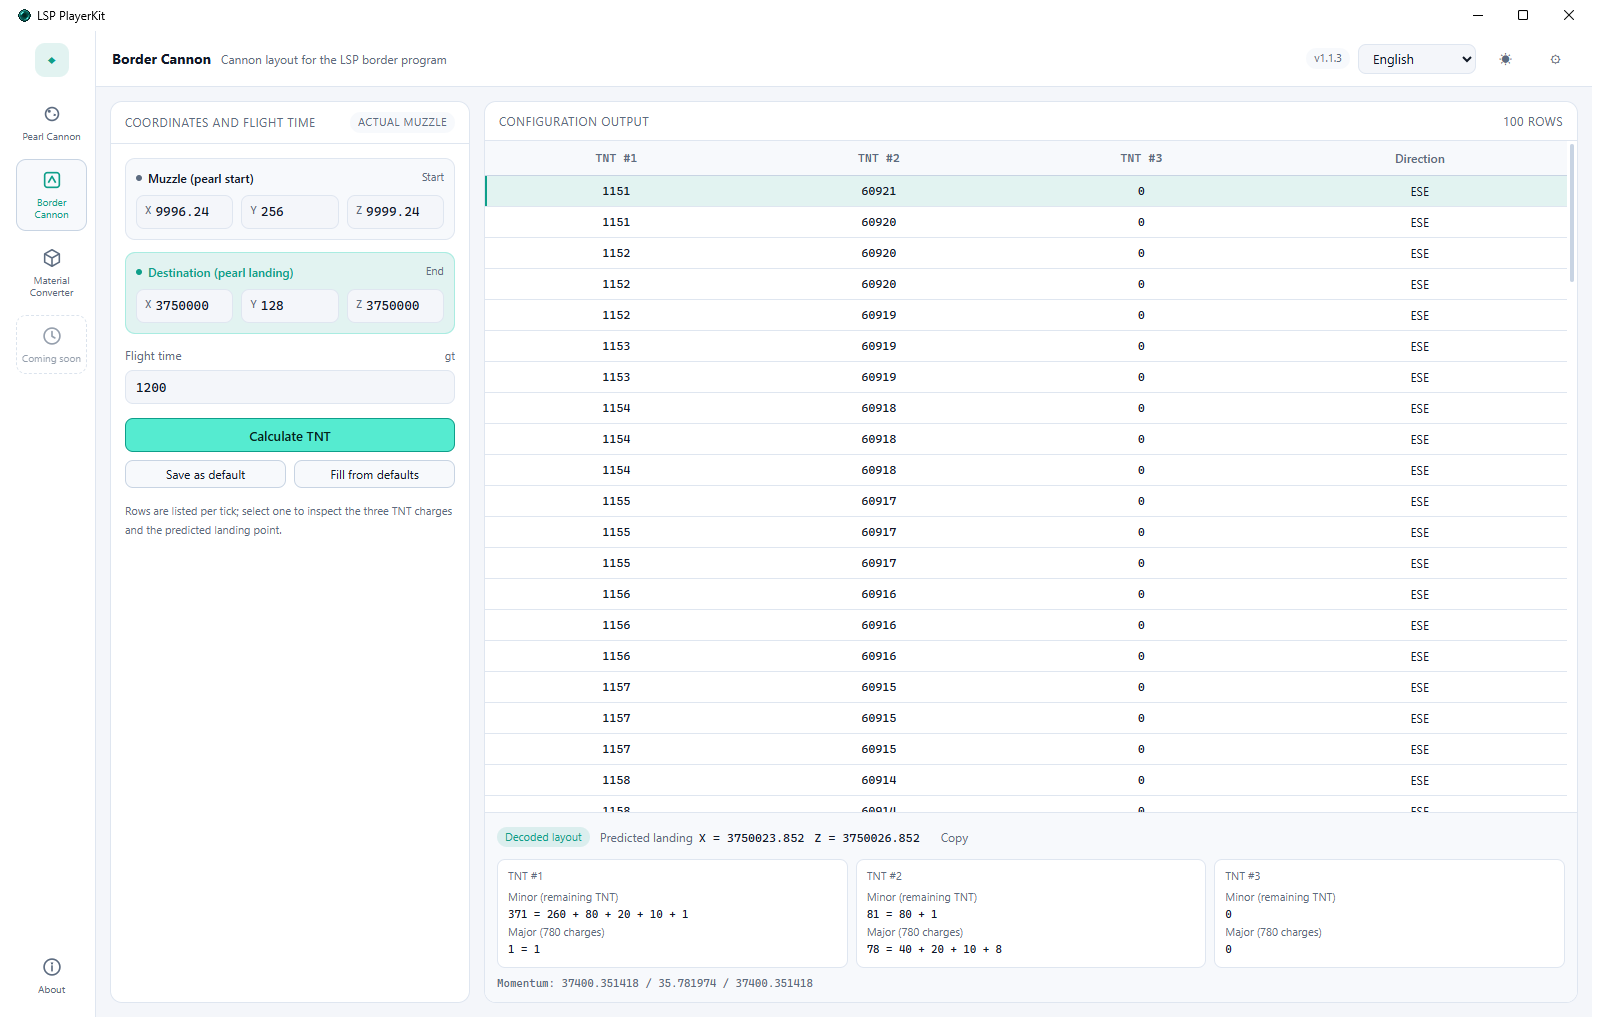
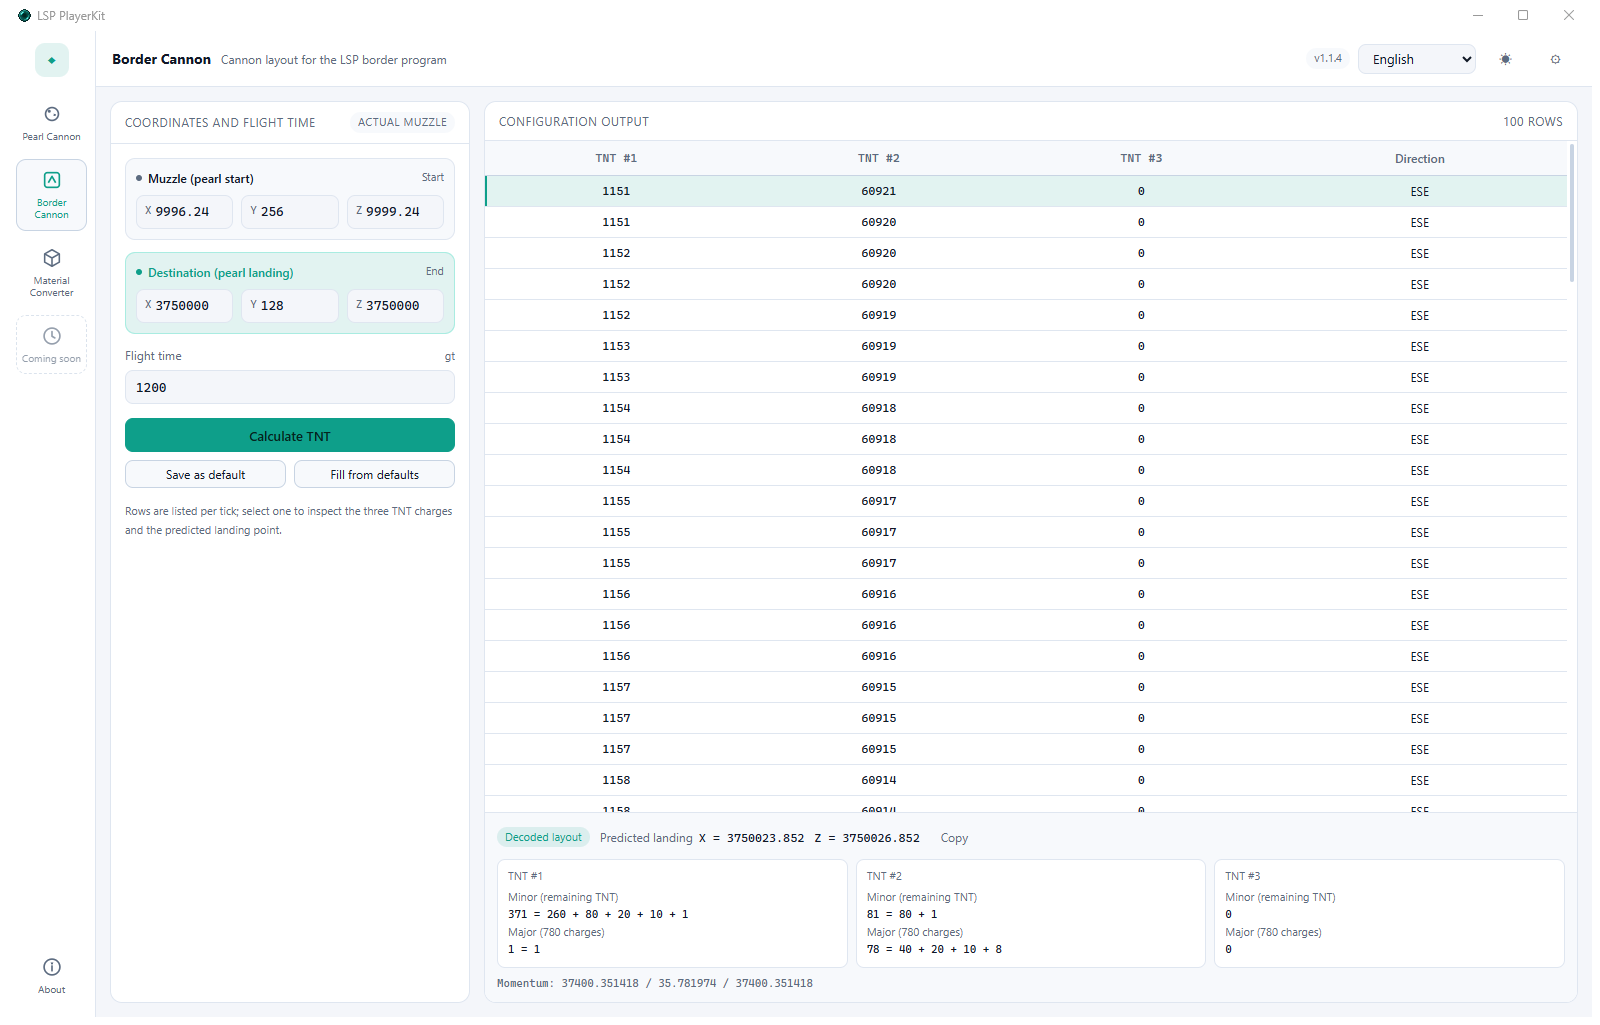
docs: 装填建议合并与拼图排布说明及 1.1.4 截图
- README 中英材料换算章节补充：同材料连续满盒合并、卡片拼图式排布
- 中英文截图按 1.1.4 重拍

Changed region(s): [[0.0625, 0.4059, 0.2812, 0.4371]]

diff --git a/docs/README.en.md b/docs/README.en.md
@@ -184,7 +184,9 @@ Columns: **Material / Stack / Count / Shulkers / Stacks / Items**.
 
 - Each material is first converted to **slots**: `full stacks + (remainder ? 1 : 0)`, with 27 slots per box.
 - Boxes are filled largest-first until full, so the box count equals `ceil(total slots / 27)`, the theoretical minimum.
+- When one material fills several boxes in a row, those boxes are **merged into a single card** (titled like `Boxes 1–2` with a “N boxes merged” tag) so long plans stay compact; mixed or partly filled boxes are still shown one by one.
 - The dialog has two views: **Cards** (one card per box, ≤ 12 boxes by default) and **List** (box index on the left, details on the right, used automatically for larger plans). Switch any time from the title bar; both have their own scrollbars.
+- Card height depends on how many material kinds a box holds, so cards are laid out **masonry-style**: each card spans exactly its measured height, leaving no empty row under short cards.
 - Each box lists “material · stacks/items · slots”, and **Copy plan** exports the whole plan as text.
 
 ![Loading plan](../README_img/en/8-pack.png)

diff --git a/README.md b/README.md
@@ -184,7 +184,9 @@
 
 - 每种材料先折算成**占用格数**：`满组数 + (有零头 ? 1 : 0)`，一盒固定 27 格。
 - 按格数从大到小逐盒填满，盒数等于 `ceil(总格数 / 27)`，即理论最少值。
+- 同一种材料连续装满多个盒子时，这几盒会**合并成一张卡片**（标题形如 `1–2 号盒`，并标注「合装 N 盒」），避免大量重复卡片占满页面；混合装或未装满的盒子仍单独显示。
 - 弹窗有两种视图：盒数 ≤ 12 默认**卡片**（每盒一张卡，显示容量条与材料明细），更多时默认**列表**（左列盒号、右侧该盒明细），标题栏可随时切换；两种视图都有独立滚动条。
+- 卡片高度随材料种类数不同，采用**拼图式排布**：按实测高度跨行摆放，短卡片下方不会留下整行空档。
 - 每盒显示「材料名称 · 组/个 · 占几格」，底部可**复制装填清单**，按盒号依次装填即可。
 
 ![装填建议](./README_img/8-pack.png)
